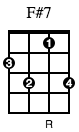
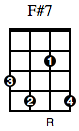
Update image with correct chord.

Changed region(s): [[0.0253, 0.2137, 0.962, 0.9771], [0.3291, 0.0305, 0.6582, 0.1527]]

diff --git a/README.md b/README.md
@@ -1,6 +1,6 @@
 # &lt;uke-chord&gt;
 
-A [Polymer](https://www.polymer-project.org) element for a ukulele chord diagram. See usage examples and a live demo here [http://pianosnake.github.io/uke-chord/](http://pianosnake.github.io/uke-chord/)
+A [Polymer](https://www.polymer-project.org) element for a ukulele chord diagram using SVG graphics. See usage examples and a live demo here [http://pianosnake.github.io/uke-chord/](http://pianosnake.github.io/uke-chord/)
 
 ![alt tag](https://raw.githubusercontent.com/pianosnake/uke-chord/master/sample-chord.png)
 
